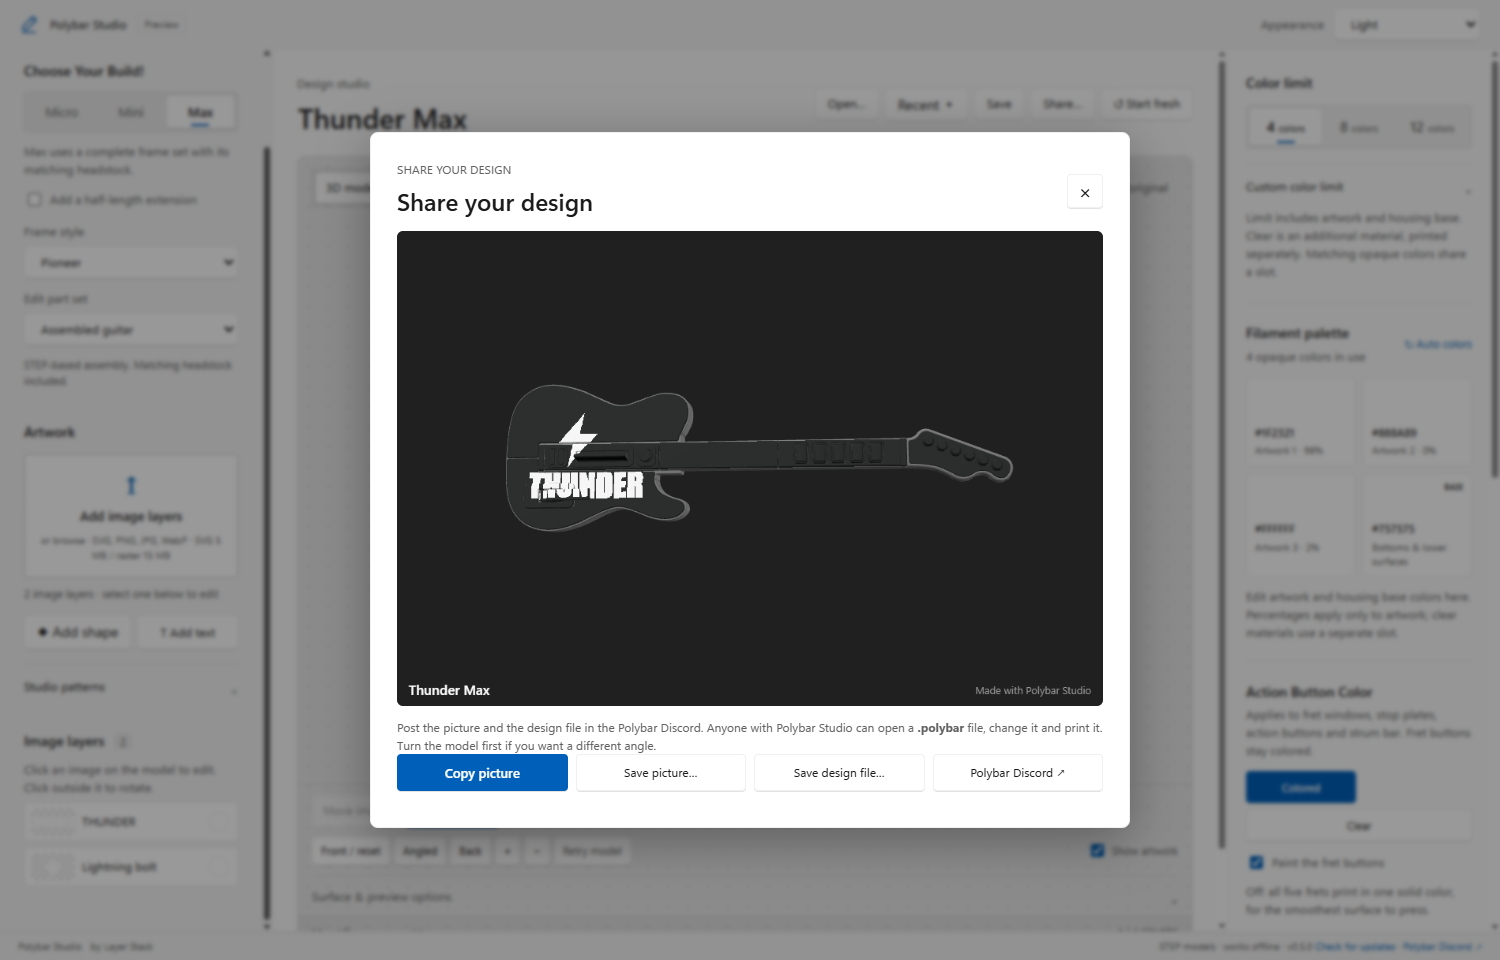
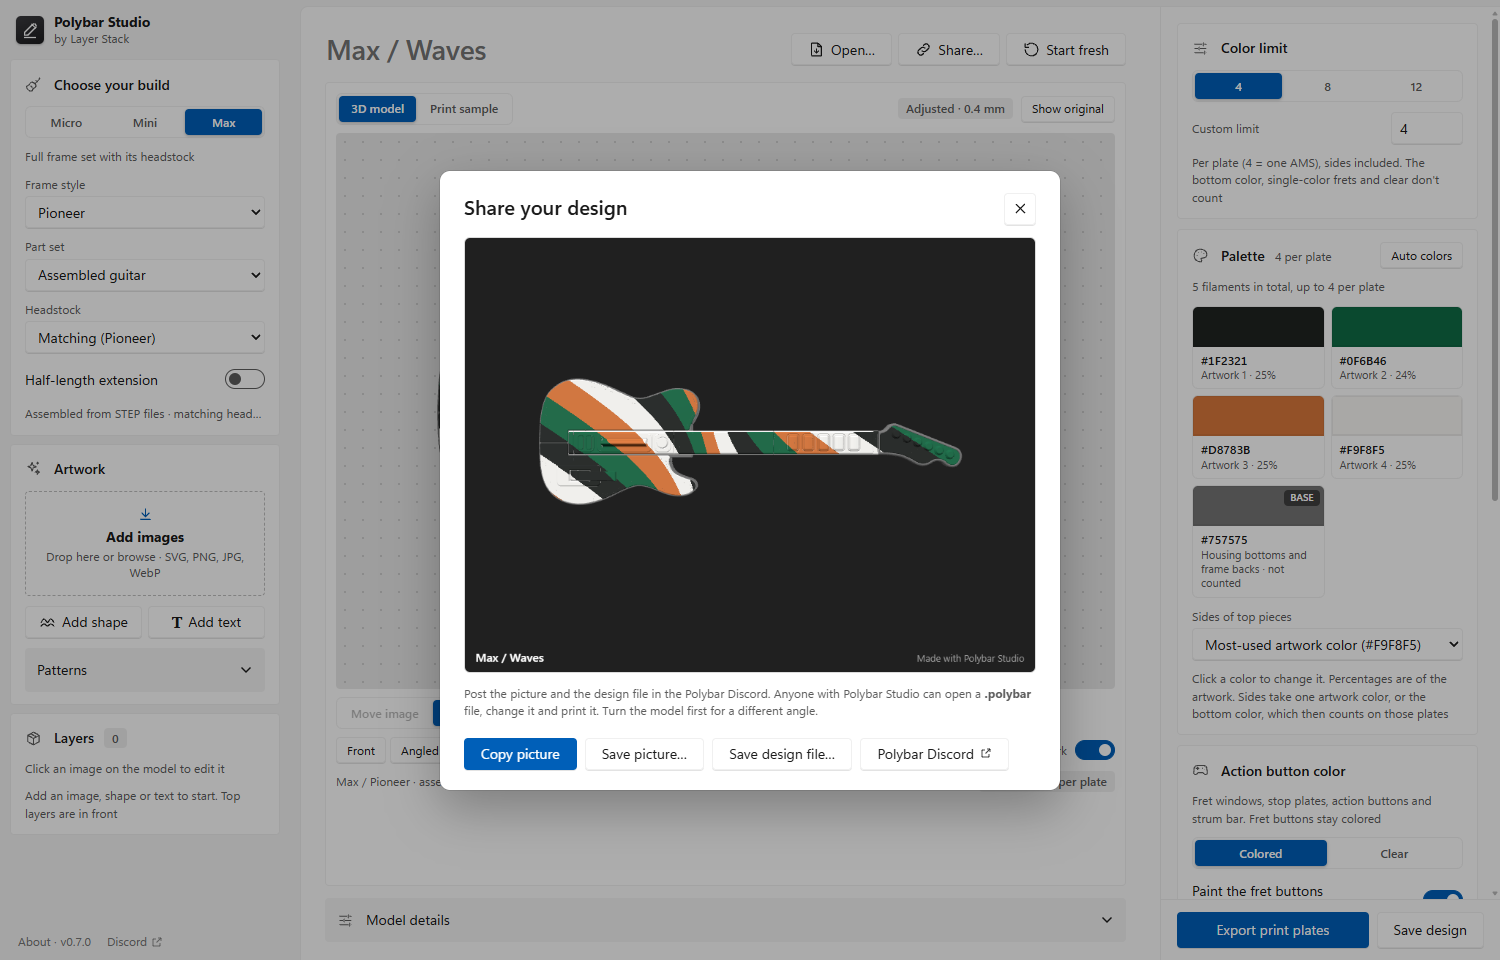
0.7.0: new look matching the 3DPCS Controller Tool; guide updated for the new controls; new screenshots

diff --git a/README.md b/README.md
@@ -2,11 +2,9 @@
 
 Paint your Polybar Micro, Mini or Max, then get a print-ready Bambu Studio project for your Bambu Lab printer.
 
-[![Download for Windows](https://img.shields.io/badge/Download_for_Windows-Polybar_Studio_0.6.0-0078D4?style=for-the-badge&logo=windows)](https://github.com/3D-Printed-Controller-Systems/Polybar-Studio-Release/releases/latest/download/Polybar-Studio-Windows.exe)
+[![Download for Windows](https://img.shields.io/badge/Download_for_Windows-Polybar_Studio_0.7.0-0078D4?style=for-the-badge&logo=windows)](https://github.com/3D-Printed-Controller-Systems/Polybar-Studio-Release/releases/latest/download/Polybar-Studio-Windows.exe)
 
 Windows 10 or 11, 64-bit · about 50 MB · works offline · [all releases](https://github.com/3D-Printed-Controller-Systems/Polybar-Studio-Release/releases) · share your designs in the [Polybar Discord](https://discord.gg/wBRdgxEGhe)
-
-This repository is private: the download works when you're signed in to GitHub with an account that has access.
 
 <picture>
   <source media="(prefers-color-scheme: dark)" srcset=".github/assets/app-dark.png">
@@ -27,43 +25,43 @@ The window has three columns: your **build and artwork** on the left, the **3D p
 
 ### 1. Choose your build
 
-Under **Choose Your Build!**, pick **Micro**, **Mini** or **Max**.
+Under **Choose your build**, pick **Micro**, **Mini** or **Max**.
 
 - **Micro** has no frame.
-- **Add a half-length extension** makes any Mini or Max longer by 85 mm (on a Max it goes after the full extension). It works with every frame.
+- **Half-length extension** (a switch) makes any Mini or Max longer by 85 mm (on a Max it goes after the full extension). It works with every frame.
 - **Mini** and **Max** have a **Frame style** list (Airbourne, Diablo, Maverick, Nomad, Offset, Pioneer, Renegade, Vampire, Wizard; Max also has the older Enforcer). Choose **No frame** for the bare controller.
-- **Max** frames come with their matching headstock. On a **Mini** with a frame, tick **Add the matching Max headstock** if you want one (it's sized for the Max, so it's off by default).
-- **Edit part set** switches the preview between the assembled guitar, the frame only, and (Max) the headstock.
+- **Headstock:** a Max frame comes with its matching headstock. Any Mini or Max can take any family's headstock from the **Headstock** list (on a Mini it's off by default: it's sized for the Max).
+- **Part set** switches the preview between the assembled guitar, the frame only, and (Max) the headstock.
 
-Drag in the preview to rotate, scroll to zoom, right-drag to pan. **Front / reset**, **Angled** and **Back** jump to a view.
+Drag in the preview to rotate, scroll to zoom, right-drag to pan. **Front**, **Angled** and **Back** jump to a view.
 
 ### 2. Add your artwork
 
-- Drop images onto **Add image layers**, or click it to browse. SVG (up to 5 MB), PNG, JPG and WebP (up to 15 MB) work; you can stack up to 12 layers.
-- Click an image on the model to select it, then drag it into place. Clicking anywhere inside a selected image's box keeps it selected. **Size** and **Rotation** have sliders and number boxes you can type in; **Center**, **Fit image** and **Done** are below them. Click away from the image to go back to rotating the model.
+- Drop images onto **Add images**, or click it to browse. SVG (up to 5 MB), PNG, JPG and WebP (up to 15 MB) work; you can stack up to 12 layers.
+- Click an image on the model to select it, then drag it into place. Clicking anywhere inside a selected image's box keeps it selected. **Size** and **Rotation** have sliders and number boxes you can type in; **Center**, **Fit** and **Done** are below them. Click away from the image to go back to rotating the model.
 - **Keyboard** (while an image is selected): arrows move it; **Ctrl + ↑ / ↓** or **+ / −** resize; **Ctrl + ← / →** or **[ ]** rotate; hold **Shift** for bigger steps; **Ctrl + D** duplicates; **Delete** removes; **Esc** deselects.
-- Each layer shows a small preview. **⧉** duplicates a layer, **×** removes it.
-- **Repeat across the guitar** (under the selected image) tiles it as a pattern: set the spacing, and optionally offset every other row. Dragging any copy moves them all.
-- **◆ Add shape** adds a circle, ring, square, triangle, diamond, hexagon, star, burst, heart, lightning bolt, arrow or music note. **T Add text** adds text: type it under the selected layer and pick a font and Bold. Shapes and text are one color: recolor them with their color dot.
-- **Image background › Remove background** takes out a solid background around a logo. Raise **Tolerance** if some background stays.
-- A one-color image (a typical logo) gets a small **color dot** in its row under **Image layers**: click it to recolor the whole image.
+- Each layer in **Layers** shows a small preview. **⧉** duplicates a layer, the trash can removes it.
+- **Repeat** (under the selected image) tiles it as a pattern: set the spacing, and optionally offset every other row. Dragging any copy moves them all.
+- **Add shape** adds a circle, ring, square, triangle, diamond, hexagon, star, burst, heart, lightning bolt, arrow or music note. **Add text** adds text: type it under the selected layer and pick a font and Bold. Shapes and text are one color: recolor them with their color dot.
+- **Background › Remove** takes out a solid background around a logo. Raise **Tolerance** if some background stays.
+- A one-color image (a typical logo) gets a small **color dot** in its row under **Layers**: click it to recolor the whole image.
 - **Name your design:** click the title above the preview (for example "Mini / Plain") and type. The name is used for the export files.
-- No image? Open **Studio patterns** for Waves, Checkers, Voltage or Orbit. **Keep pattern behind image layers** puts a pattern under your images.
+- No image? Open **Patterns** for Waves, Checkers, Voltage or Orbit. **Keep pattern behind images** puts a pattern under your images.
 
 ### 3. Pick your colors
 
-- **Color limit** is how many filaments you'll use: 4, 8, 12, or a custom number. The artwork is reduced to fit, and the housing base color counts as one of them.
-- **Filament palette** shows each color and how much of the artwork uses it. Click a swatch to pick from Bambu Lab's own **PLA Basic** and **PLA Matte** spool colors, or choose **Custom color…**. **Auto colors** rebuilds the palette from the artwork.
+- **Color limit** is how many colors each print plate may use: 4 (one AMS), 8, 12, or a custom number. The artwork is reduced to fit. The bottom color, single-color frets and clear don't count: they're extra filaments on their own plates.
+- **Palette** shows each color and how much of the artwork uses it. Click a swatch to pick from Bambu Lab's own **PLA Basic** and **PLA Matte** spool colors, or choose **Custom color…**. **Auto colors** rebuilds the palette from the artwork.
 - **BASE** is the housing's bottom and lower surfaces (gray by default).
 
-### 4. Action Button Color
+### 4. Action button color
 
 Choose how the fret windows, stop plates, action buttons and strum bar are printed:
 
 - **Colored:** painted with the artwork like everything else.
 - **Clear:** they print in clear PETG (PETG Translucent). This is an extra material on top of your color limit.
 
-**Paint the fret buttons** (on by default) paints the five frets with the artwork. Turn it off for frets in one solid color you pick (a smoother surface to press); that color counts toward your color limit.
+**Paint the fret buttons** (on by default) paints the five frets with the artwork. Turn it off for frets in one solid color you pick (a smoother surface to press); that color is an extra filament and doesn't count toward the limit.
 
 <picture>
   <source media="(prefers-color-scheme: dark)" srcset=".github/assets/clear-dark.png">
@@ -75,9 +73,9 @@ Choose how the fret windows, stop plates, action buttons and strum bar are print
 ### 5. Check printability
 
 - Set **Nozzle size** to the nozzle you print with (0.4 mm is standard).
-- Leave **Optimize artwork for printing** on: it makes sure every color is at least a printable width everywhere, thickening thin lines and clearing hairline gaps and specks. **Adjustment strength** sets that width: Gentle 1.5×, Balanced 2× and Strong 2.5× the nozzle (0.6 / 0.8 / 1.0 mm on a 0.4 mm nozzle). The status line says "Every color at least … mm wide ✓", or how much is still thinner.
+- Leave **Optimize for printing** on: it makes sure every color is at least a printable width everywhere, thickening thin lines and clearing hairline gaps and specks. **Adjustment strength** sets that width: Gentle 1.5×, Balanced 2× and Strong 2.5× the nozzle (0.6 / 0.8 / 1.0 mm on a 0.4 mm nozzle). The status line says "Every color … mm+ wide ✓", or how much is still thinner.
 - Exporting with optimization off, or with anything still too thin, shows **Print at your own risk**: tick "I understand…" to continue.
-- **Show unadjusted artwork** compares before and after. **Print sample** (above the preview) shows the artwork flat, as printed.
+- **Show original** compares before and after. **Print sample** (above the preview) shows the artwork flat, as printed.
 
 <picture>
   <source media="(prefers-color-scheme: dark)" srcset=".github/assets/sample-dark.png">
@@ -96,10 +94,10 @@ Click **Export print plates**.
 
 <picture>
   <source media="(prefers-color-scheme: dark)" srcset=".github/assets/export-dark.png">
-  <img alt="The export dialog with a prepared 10-plate bundle" src=".github/assets/export-light.png">
+  <img alt="The export dialog with a prepared 17-plate bundle" src=".github/assets/export-light.png">
 </picture>
 
-**Save artwork PNG** (under the export button) saves the flat artwork as an image.
+**More exports** (above the export button) has **Artwork PNG**, which saves the flat artwork as an image, and **Clear parts plate**.
 
 ### 7. Print it
 
@@ -113,9 +111,9 @@ In the slicer, pick your actual filament profiles, check that each color goes to
 
 ## Save, open and share designs
 
-- **Save** (Ctrl + S) saves your design as a `.polybar` file: the build, colors, print settings and every layer. **Ctrl + Shift + S** saves a copy under a new name. **Open…** (Ctrl + O) opens one; **Recent ▾** lists the designs you used lately. Double-clicking a `.polybar` file in Explorer opens it too.
+- **Save** (Ctrl + S) saves your design as a `.polybar` file: the build, colors, print settings and every layer. **Ctrl + Shift + S** saves a copy under a new name. **Open…** (Ctrl + O) opens one; **Recent** lists the designs you used lately. Double-clicking a `.polybar` file in Explorer opens it too.
 - Polybar Studio also keeps your work every 30 seconds. If it closes unexpectedly, choose **Restore it** the next time it opens.
-- **Share…** makes a picture of your design (turn the model first for a different angle). **Copy picture** and paste it into your post, and **Save design file…** to attach the `.polybar` file so others can open, change and print it. **Polybar Discord ↗** takes you to the community ([discord.gg/wBRdgxEGhe](https://discord.gg/wBRdgxEGhe)); the same link is at the bottom of the window.
+- **Share…** makes a picture of your design (turn the model first for a different angle). **Copy picture** and paste it into your post, and **Save design file…** to attach the `.polybar` file so others can open, change and print it. **Polybar Discord ↗** takes you to the community ([discord.gg/wBRdgxEGhe](https://discord.gg/wBRdgxEGhe)); the same link is at the bottom left of the window.
 
 <picture>
   <source media="(prefers-color-scheme: dark)" srcset=".github/assets/share-dark.png">
@@ -124,13 +122,15 @@ In the slicer, pick your actual filament profiles, check that each color goes to
 
 ## Good to know
 
-- **Updates:** when a new version is out, Polybar Studio asks to install it (your design is kept). Tick **Install updates automatically when Polybar Studio starts** to skip the question, or use **Check for updates** at the bottom of the window. Updates are signed, so the app only installs genuine ones.
+- **Updates:** when a new version is out, Polybar Studio asks to install it (your design is kept). Turn on **Install updates automatically on start** to skip the question, or open **About** (bottom left) and click **Check now**. Updates are signed, so the app only installs genuine ones.
 - **Enforcer** can be previewed and painted, but can't be exported as print plates yet.
 - Exports have been sliced with Bambu Studio's command line (all plates, painted colors intact). Please report anything that looks wrong when you open one (a wrong color, a piece upside down, an odd layout).
 
 ## Releases
 
 Each release lists the installer's SHA-256 and the [Development](https://github.com/3D-Printed-Controller-Systems/Polybar-Studio-Development) commit it was built from.
+
+**0.7.0**: a new look that matches the 3DPCS Controller Tool (switches, button groups, Windows drop-down lists, an About sheet with Light / Dark / Windows appearance); smooth artwork edges, with no jagged fringe along curves in the preview or the export; Start fresh asks first; shorter text throughout.
 
 **0.6.0**: sharp artwork at print resolution (shapes, text and SVGs from their outlines, exact colors, no edge shadow); the color limit is per plate, and the bottom color, solid frets and clear don't count; any headstock on any Mini or Max; resize and rotate handles; joystick painted on top only; 33 new fonts; Export and Save design always visible; a first-export checklist.
 
